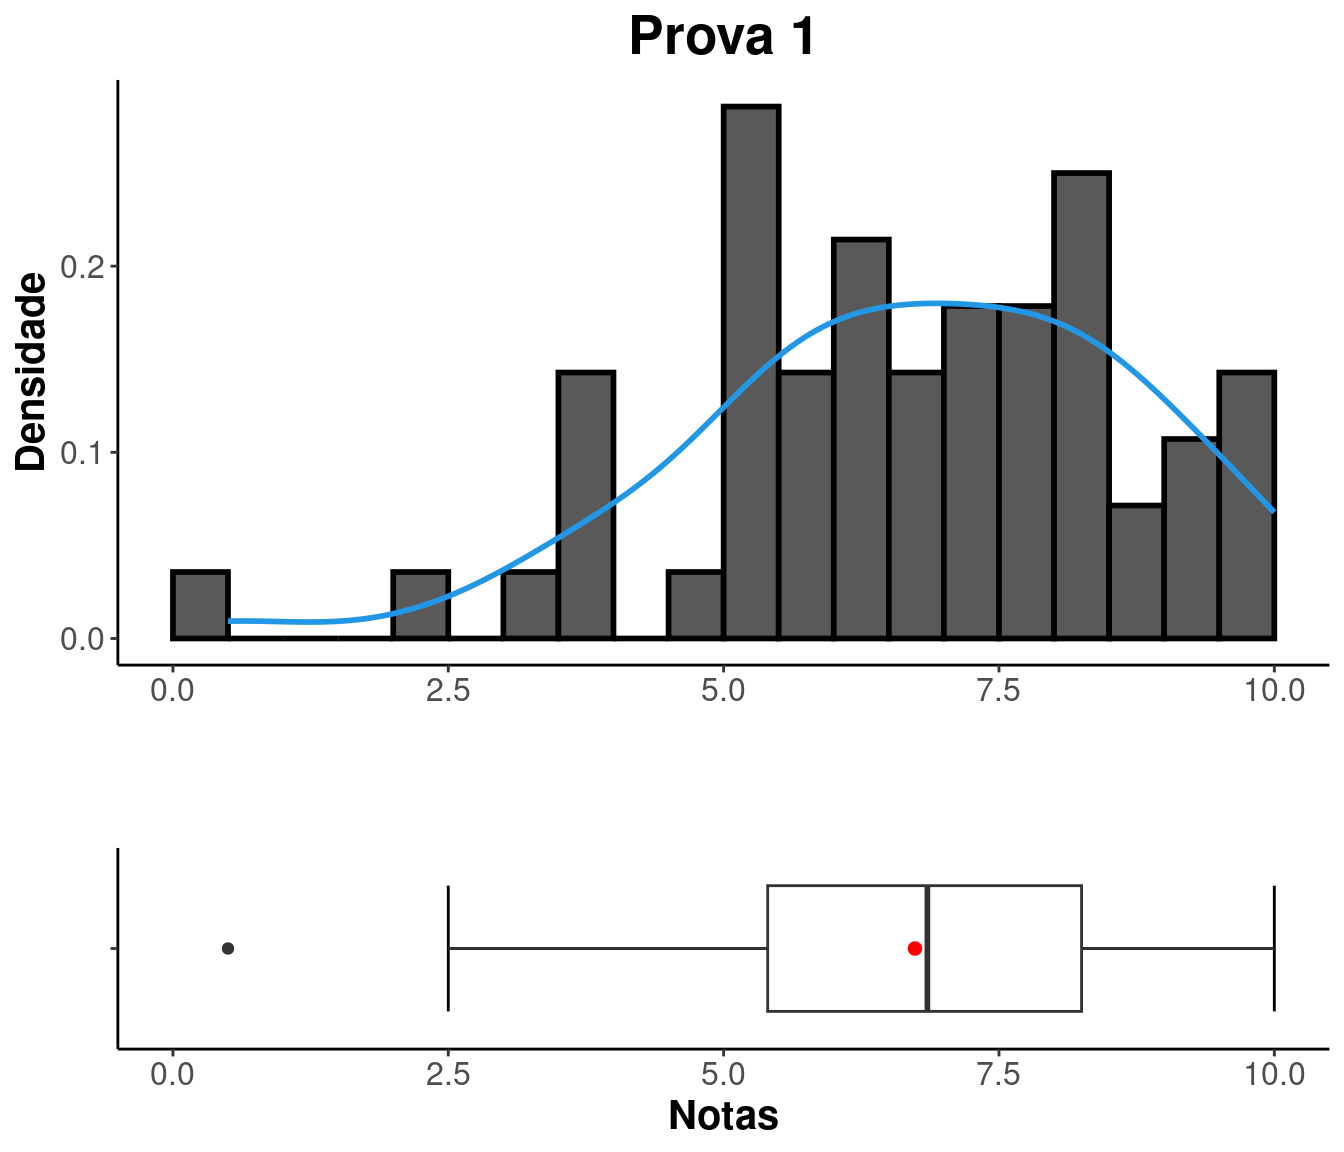
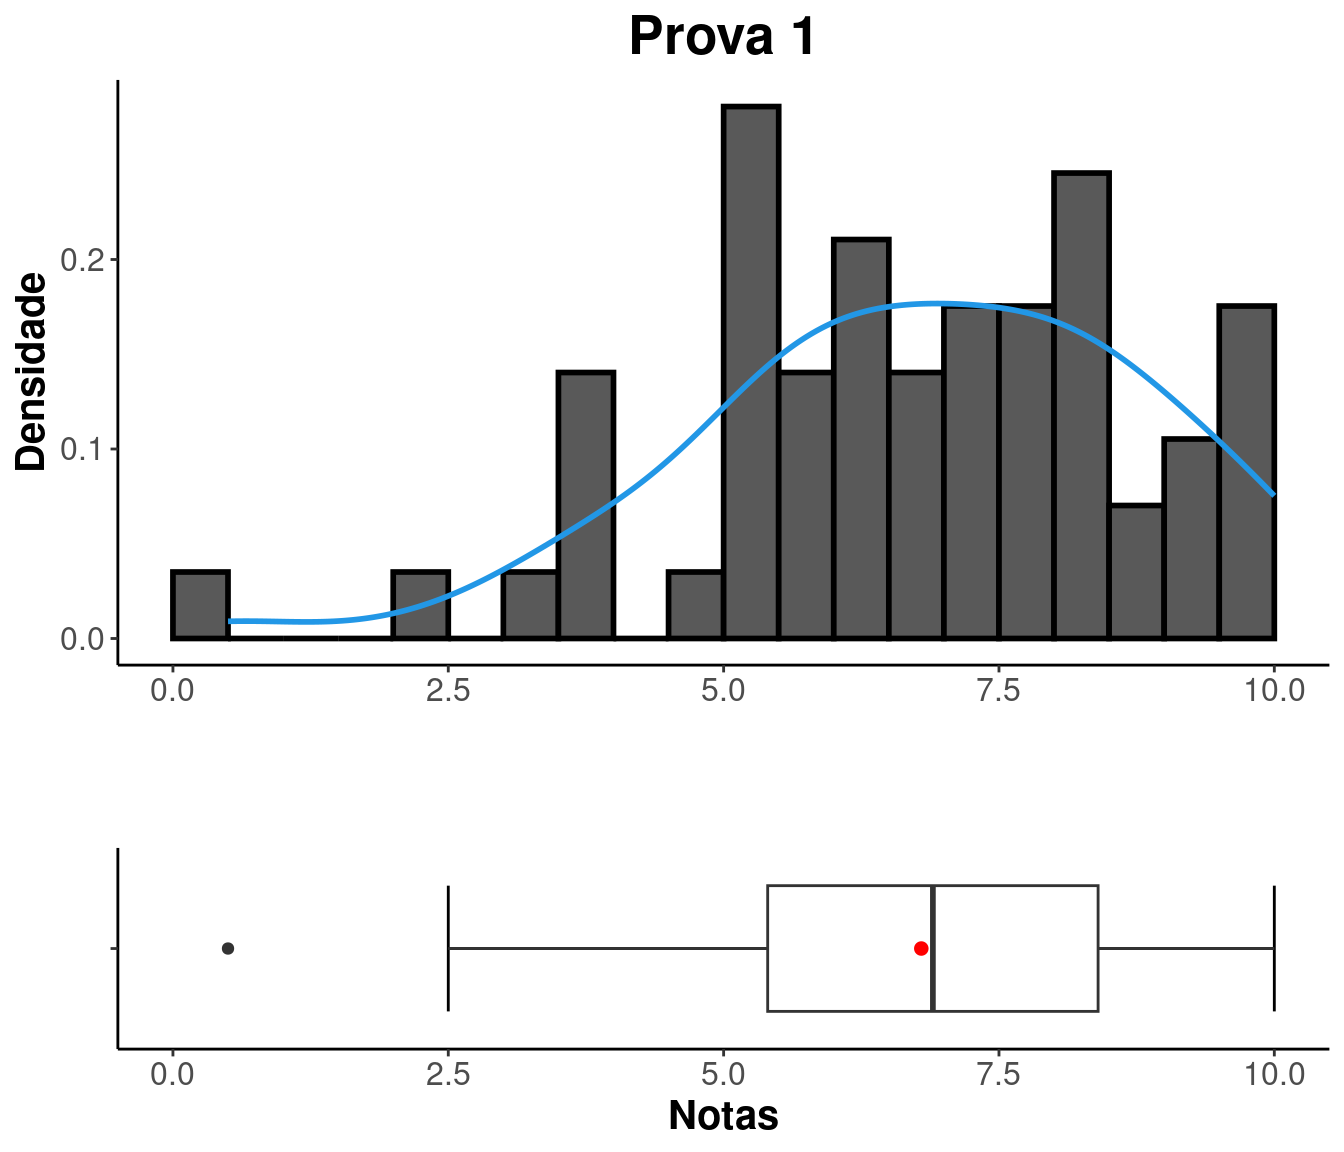
adiciona nota segunda chamada

diff --git a/notas.html b/notas.html
@@ -299,8 +299,8 @@ $(document).ready(function () {
 <p>Busque sua situação digitando seu GRR na caixa “Search”.</p>
 <p><br />
 </p>
-<div class="datatables html-widget html-fill-item-overflow-hidden html-fill-item" id="htmlwidget-ea9d8c4cf079b590f00a" style="width:100%;height:auto;"></div>
-<script type="application/json" data-for="htmlwidget-ea9d8c4cf079b590f00a">{"x":{"filter":"none","vertical":false,"editable":{"target":"cell","disable":{"columns":null},"numeric":[1,2,3],"date":[]},"data":[["GRR20202867","GRR20233282","GRR20212072","GRR20231118","GRR20213124","GRR20224343","GRR20209982","GRR20220346","GRR20210855","GRR20230070","GRR20221230","GRR20207029","GRR20220343","GRR20214971","GRR20231988","GRR20234980","GRR20206813","GRR20223153","GRR20221067","GRR20211793","GRR20232021","GRR20224162","GRR20214982","GRR20221227","GRR20233296","GRR20233291","GRR20221063","GRR20186966","GRR20231130","GRR20215428","GRR20232331","GRR20220348","GRR20224544","GRR20224379","GRR20211348","GRR20221864","GRR20205086","GRR20222004","GRR20221038","GRR20224437","GRR20214640","GRR20221036","GRR20233308","GRR20233310","GRR20186173","GRR20223808","GRR20220355","GRR20214637","GRR20220350","GRR20224579","GRR20196247","GRR20233281","GRR20222007","GRR20205804","GRR20233311","GRR20221233","GRR20223829","GRR20203968","GRR20215729","GRR20211333"],[4,2,16,14,2,4,2,2,0,0,0,4,4,0,0,16,0,0,0,0,2,2,0,2,4,2,2,0,4,2,2,2,0,0,0,6,4,0,2,2,2,4,0,4,2,2,0,4,4,8,6,4,4,2,2,0,0,4,0,2],[6.5,5.1,null,null,4,3.4,5.4,7.7,10,6.2,9.300000000000001,10,null,8.199999999999999,8.5,null,9.300000000000001,7.6,7.7,6.3,0.5,7.3,9.699999999999999,8.4,5.4,7,5.2,5.1,3.6,4,9.9,6.7,7.4,8,8.5,8.5,7.4,8.800000000000001,5.4,5.3,7.4,2.5,5.3,5.9,8,4.6,8.5,8.699999999999999,6.4,4,6.4,6,6.9,6.4,7.1,9.199999999999999,6.8,6,8.1,5.8],[8.5,8.300000000000001,null,null,8.5,7.2,4.9,10,10,7,8.699999999999999,10,10,10,10,null,9.4,10,7.4,8.300000000000001,5.6,6.9,8.699999999999999,10,1.5,6.1,5.7,5.8,7.9,4.3,9.9,8.699999999999999,7.5,10,9.9,5.6,6.8,10,0,8,6.9,5.7,0,9.300000000000001,7.8,5.5,9.9,10,6.2,3.3,9.800000000000001,4.5,8.4,7.9,8,9.9,9.5,0,9.800000000000001,7.1]],"container":"<table class=\"cell-border stripe\">\n  <thead>\n    <tr>\n      <th>GRR<\/th>\n      <th>FALTAS<\/th>\n      <th>PROVA 1<\/th>\n      <th>REMOTA 1<\/th>\n    <\/tr>\n  <\/thead>\n<\/table>","options":{"columnDefs":[{"className":"dt-right","targets":[1,2,3]}],"order":[],"autoWidth":false,"orderClasses":false}},"evals":[],"jsHooks":[]}</script>
+<div class="datatables html-widget html-fill-item-overflow-hidden html-fill-item" id="htmlwidget-3bae245fc8a1e0187cc5" style="width:100%;height:auto;"></div>
+<script type="application/json" data-for="htmlwidget-3bae245fc8a1e0187cc5">{"x":{"filter":"none","vertical":false,"editable":{"target":"cell","disable":{"columns":null},"numeric":[1,2,3],"date":[]},"data":[["GRR20202867","GRR20233282","GRR20212072","GRR20231118","GRR20213124","GRR20224343","GRR20209982","GRR20220346","GRR20210855","GRR20230070","GRR20221230","GRR20207029","GRR20220343","GRR20214971","GRR20231988","GRR20234980","GRR20206813","GRR20223153","GRR20221067","GRR20211793","GRR20232021","GRR20224162","GRR20214982","GRR20221227","GRR20233296","GRR20233291","GRR20221063","GRR20186966","GRR20231130","GRR20215428","GRR20232331","GRR20220348","GRR20224544","GRR20224379","GRR20211348","GRR20221864","GRR20205086","GRR20222004","GRR20221038","GRR20224437","GRR20214640","GRR20221036","GRR20233308","GRR20233310","GRR20186173","GRR20223808","GRR20220355","GRR20214637","GRR20220350","GRR20224579","GRR20196247","GRR20233281","GRR20222007","GRR20205804","GRR20233311","GRR20221233","GRR20223829","GRR20203968","GRR20215729","GRR20211333"],[4,2,16,14,2,4,2,2,0,0,0,4,4,0,0,16,0,0,0,0,2,2,0,2,4,2,2,0,4,2,2,2,0,0,0,6,4,0,2,2,2,4,0,4,2,2,0,4,4,8,6,4,4,2,2,0,0,4,0,2],[6.5,5.1,null,null,4,3.4,5.4,7.7,10,6.2,9.300000000000001,10,10,8.199999999999999,8.5,null,9.300000000000001,7.6,7.7,6.3,0.5,7.3,9.699999999999999,8.4,5.4,7,5.2,5.1,3.6,4,9.9,6.7,7.4,8,8.5,8.5,7.4,8.800000000000001,5.4,5.3,7.4,2.5,5.3,5.9,8,4.6,8.5,8.699999999999999,6.4,4,6.4,6,6.9,6.4,7.1,9.199999999999999,6.8,6,8.1,5.8],[8.5,8.300000000000001,null,null,8.5,7.2,4.9,10,10,7,8.699999999999999,10,10,10,10,null,9.4,10,7.4,8.300000000000001,5.6,6.9,8.699999999999999,10,1.5,6.1,5.7,5.8,7.9,4.3,9.9,8.699999999999999,7.5,10,9.9,5.6,6.8,10,0,8,6.9,5.7,0,9.300000000000001,7.8,5.5,9.9,10,6.2,3.3,9.800000000000001,4.5,8.4,7.9,8,9.9,9.5,0,9.800000000000001,7.1]],"container":"<table class=\"cell-border stripe\">\n  <thead>\n    <tr>\n      <th>GRR<\/th>\n      <th>FALTAS<\/th>\n      <th>PROVA 1<\/th>\n      <th>REMOTA 1<\/th>\n    <\/tr>\n  <\/thead>\n<\/table>","options":{"columnDefs":[{"className":"dt-right","targets":[1,2,3]}],"order":[],"autoWidth":false,"orderClasses":false}},"evals":[],"jsHooks":[]}</script>
 <hr />
 </div>
 <div id="análise-das-notas"
@@ -310,13 +310,13 @@ class="section level1 tabset tabset-fade tabset-pills">
 <div id="prova-1" class="section level2">
 <h2>PROVA 1</h2>
 <center>
-<table style="width:68%;">
+<table style="width:67%;">
 <colgroup>
 <col width="12%" />
 <col width="8%" />
 <col width="11%" />
 <col width="13%" />
-<col width="9%" />
+<col width="8%" />
 <col width="12%" />
 </colgroup>
 <thead>
@@ -333,9 +333,9 @@ class="section level1 tabset tabset-fade tabset-pills">
 <tr class="odd">
 <td align="center">0.5</td>
 <td align="center">5.4</td>
-<td align="center">6.737</td>
-<td align="center">6.85</td>
-<td align="center">8.25</td>
+<td align="center">6.795</td>
+<td align="center">6.9</td>
+<td align="center">8.4</td>
 <td align="center">10</td>
 </tr>
 </tbody>
@@ -356,8 +356,8 @@ class="section level1 tabset tabset-fade tabset-pills">
 <tbody>
 <tr class="odd">
 <td align="center">9.5</td>
-<td align="center">3.998</td>
-<td align="center">1.999</td>
+<td align="center">4.113</td>
+<td align="center">2.028</td>
 </tr>
 </tbody>
 </table>
